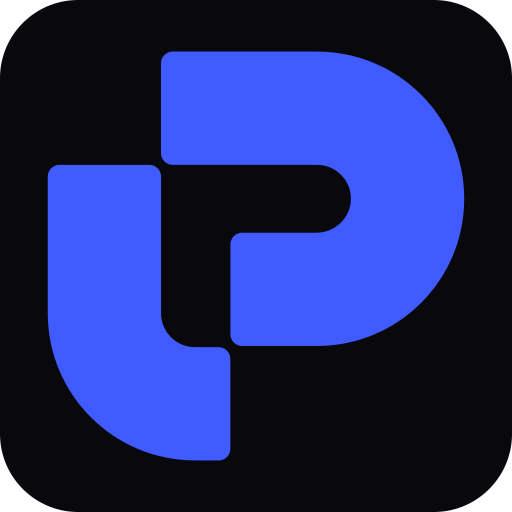
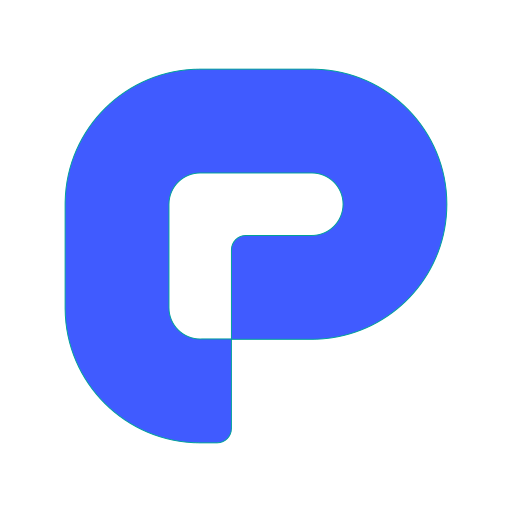
renovation

diff --git a/vite.config.js b/vite.config.js
@@ -10,7 +10,7 @@ export default defineConfig({
     tailwindcss(),
     VitePWA({
       registerType: 'autoUpdate',
-      includeAssets: ['plaza.svg', 'apple-touch-icon.png'],
+      includeAssets: ['plazafolio.svg', 'apple-touch-icon.png'],
       manifest: {
         name: 'Plazafolio',
         short_name: 'Plazafolio',
@@ -41,7 +41,12 @@ export default defineConfig({
         ],
       },
       workbox: {
+        skipWaiting: true,
+        clientsClaim: true,
+        cleanupOutdatedCaches: true,
         globPatterns: ['**/*.{js,css,html,svg,png,woff2}'],
+        navigateFallback: 'index.html',
+        navigateFallbackDenylist: [/^\/api/],
         runtimeCaching: [
           {
             urlPattern: /^https:\/\/fonts\.googleapis\.com\/.*/i,

diff --git a/src/components/AuthView.vue b/src/components/AuthView.vue
@@ -60,7 +60,7 @@ function toggleMode() {
     <div class="w-full max-w-sm relative z-10">
       <!-- Logo + Title -->
       <div class="flex flex-col items-center mb-8">
-        <img src="/plaza.svg" alt="Plazafolio" class="w-14 h-14 mb-3" />
+        <img src="/plazafolio.svg" alt="Plazafolio" class="w-14 h-14 mb-3" />
         <h1 class="text-xl font-bold text-foreground tracking-tight">Plazafolio</h1>
         <p class="text-muted-foreground text-xs mt-1">Análisis con el método Geraldine Weiss</p>
       </div>

diff --git a/src/components/AppHeader.vue b/src/components/AppHeader.vue
@@ -108,7 +108,7 @@ function onAlertClick(alert) {
   <header class="glass-header fixed top-0 left-0 right-0 z-40 flex items-end px-3 sm:px-5 pb-2">
     <!-- Logo -->
     <div class="flex items-center gap-2 sm:gap-3">
-      <img src="/plaza.svg" alt="Plazafolio" class="w-7 h-7 sm:w-8 sm:h-8" />
+      <img src="/plazafolio.svg" alt="Plazafolio" class="w-7 h-7 sm:w-8 sm:h-8" />
       <span class="text-foreground font-semibold text-sm tracking-wide hidden sm:inline">Plazafolio</span>
     </div>
 

diff --git a/index.html b/index.html
@@ -12,8 +12,8 @@
     <link rel="apple-touch-icon" href="/apple-touch-icon.png" />
 
     <!-- Icons -->
-    <link rel="icon" type="image/svg+xml" href="/plaza.svg" />
-    <link rel="icon" type="image/png" sizes="32x32" href="/plaza.svg" />
+    <link rel="icon" type="image/svg+xml" href="/plazafolio.svg" />
+    <link rel="icon" type="image/png" sizes="32x32" href="/plazafolio.svg" />
 
     <!-- Fonts -->
     <link rel="preconnect" href="https://fonts.googleapis.com" />
